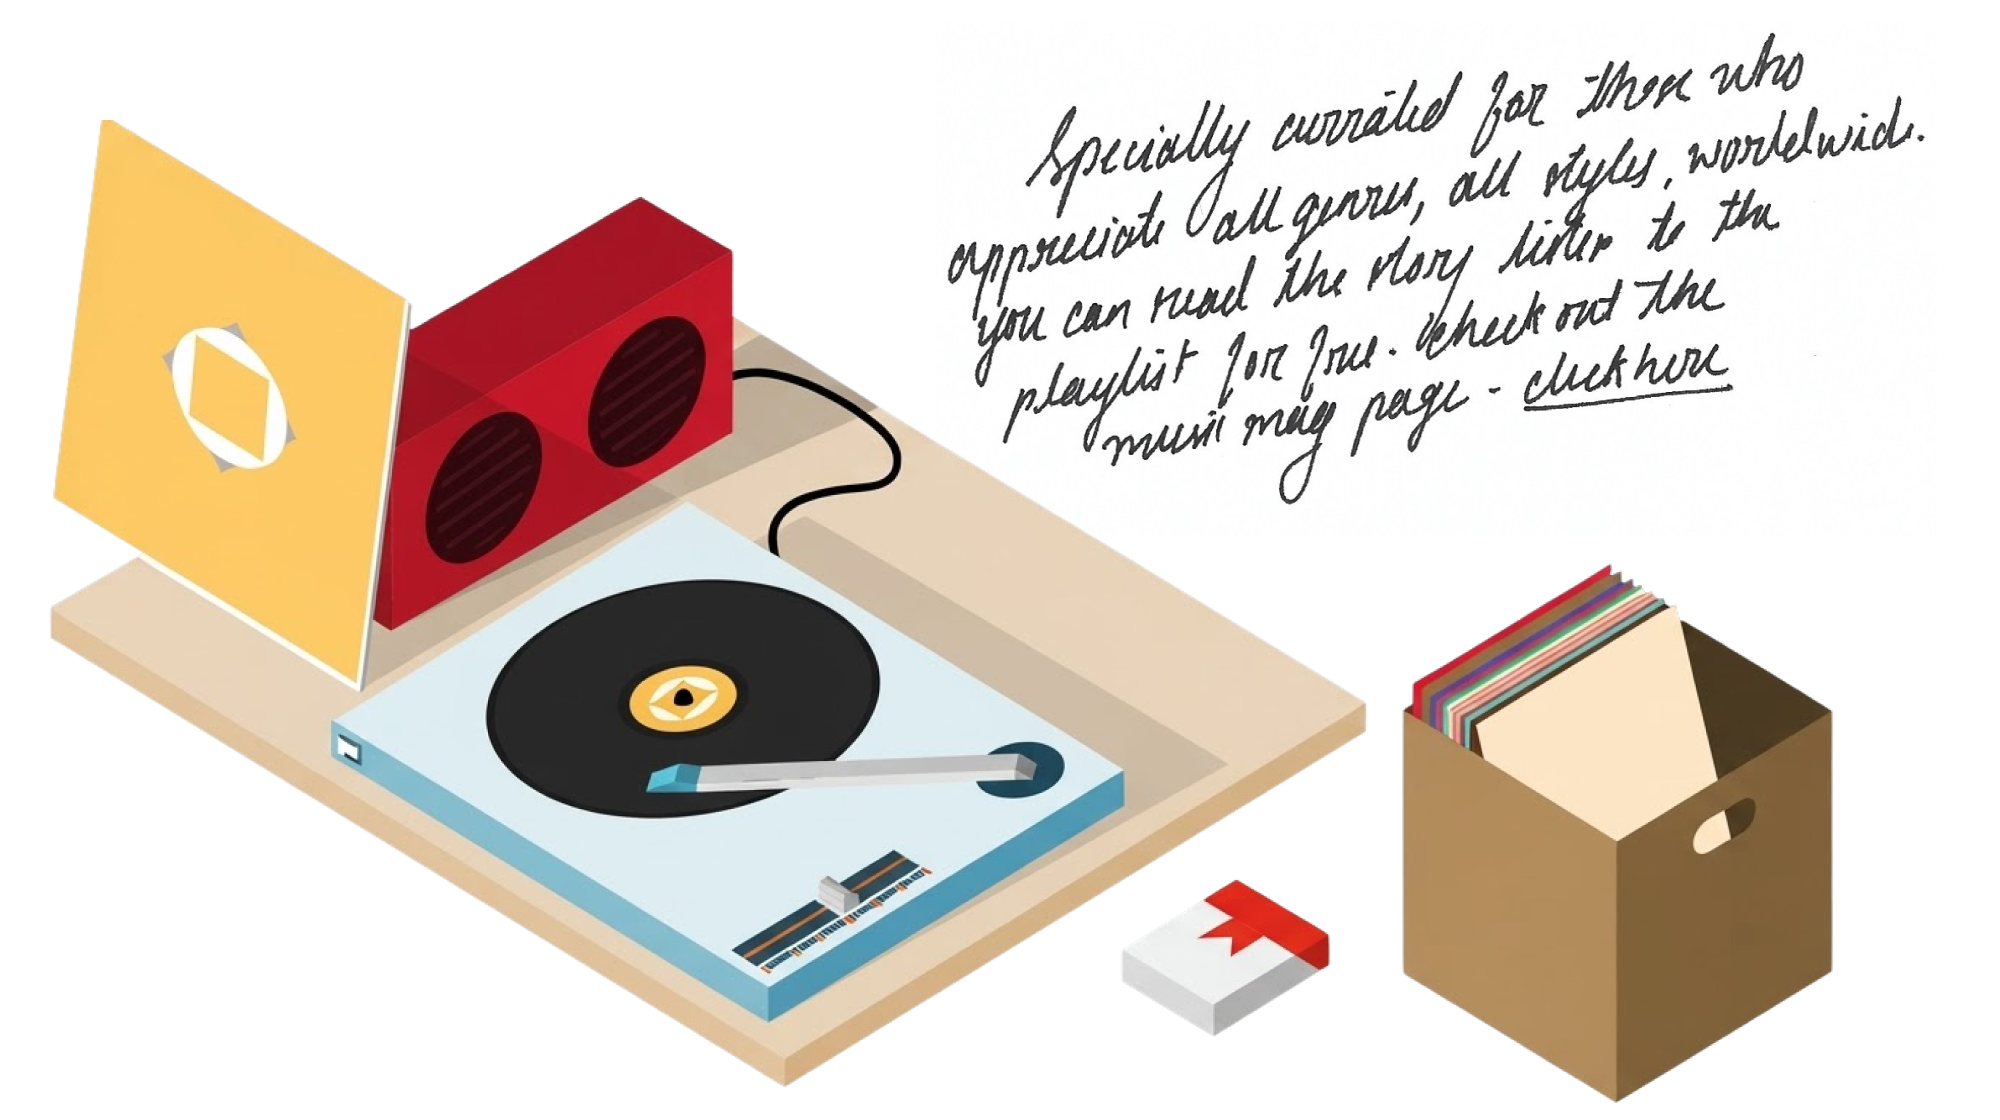
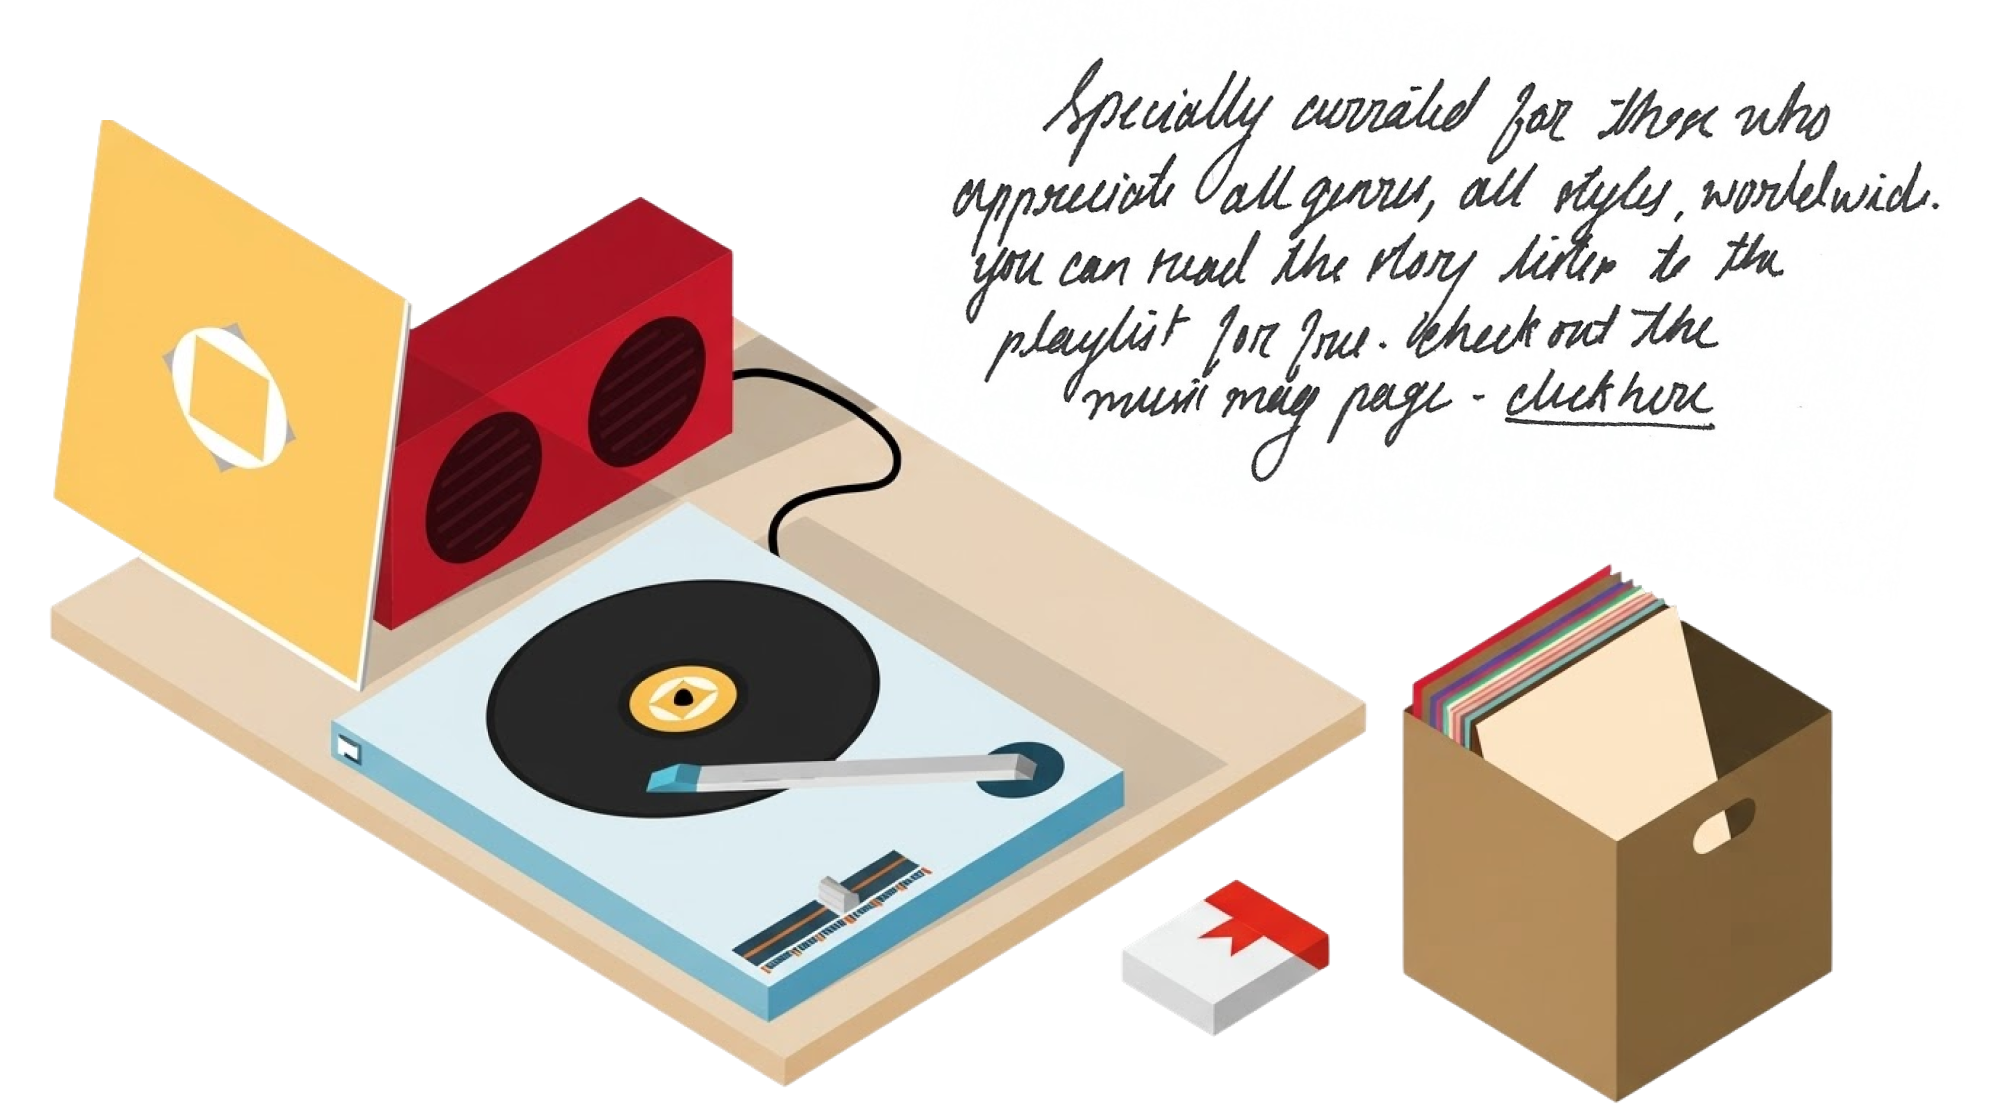
Modify homepage

Changed region(s): [[0.465, 0.0312, 0.961, 0.4375]]

diff --git a/index.html b/index.html
@@ -121,12 +121,6 @@
                         <img src="/images/stations/the-first-time/playlist.jpg" alt="Album: The First Time"
                             title="Album: The First Time" />
                     </a>
-                    <!--				<a href="/music-mag.html#songs-I-keep-coming-back-to">-->
-                    <!--					<img src="/images/stations/songs-I-keep-coming-back-to/playlist.png" alt="Playlist: Songs I Keep Coming Back To" title="Playlist: Songs I Keep Coming Back To"/>-->
-                    <!--				</a>-->
-                    <!--<a href="/music-mag.html#noom-rave">-->
-                    <!--<img src="/images/stations/noom-rave/playlist.png" alt="Playlist: Noom Rave" title="Playlist: Noom Rave"/>-->
-                    <!--</a>-->
                 </div>
                 <a href="/music-mag.html">
                     <img style="width: 100%" src="/images/playlist-banner.png" />
@@ -135,9 +129,6 @@
 
             <div class="HomeSection">
                 <div class="ProjectBanner">
-                    <div class="HomeBanner">
-                        <img src="/images/home/home-writings-banner.png" alt="music mag banner" />
-                    </div>
                     <h2>Recent Writing</h2>
                     <ul>
                         <li>
@@ -171,6 +162,9 @@
                             <a class="Writing__Title--small ViewAll" href="/writings.html">VIEW ALL</a>
                         </li>
                     </ul>
+                    <div class="HomeBanner">
+                        <img src="/images/home/home-writings-banner.png" alt="music mag banner" />
+                    </div>
                 </div>
             </div>
 
